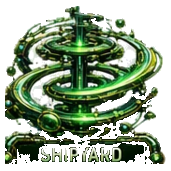
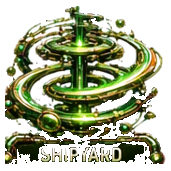
feat: add distinct secondary theme palettes

diff --git a/apps/nebula-arcade/src/nebula-arcade-page.ts b/apps/nebula-arcade/src/nebula-arcade-page.ts
@@ -79,7 +79,7 @@ function rocketDock(shellSurface: boolean): string {
 }
 
 function settingsDialog(): string {
-  return `<dialog id="nebula-settings"><form id="workspace-settings"><header><div><span>CANONICAL WORKSPACE</span><h2>Nebula Arcade settings</h2></div><button id="close-settings" type="button" aria-label="Close settings">×</button></header><p>Nebula Arcade reads the same theme, accent, stars, glass, blur, and scene override used across your authorized ecosystem apps. The shared Glass control sets depth one; deeper nested surfaces automatically become more translucent.</p><div class="settings-grid"><label>Theme<select name="theme"><option value="solar-flare">Solar flare</option><option value="nebula-purple">Nebula purple</option><option value="oceanic-blue">Oceanic blue</option><option value="aurora-green">Aurora green</option><option value="system">System</option></select></label><label>Accent<input name="accent" type="color" value="#a855f7"></label><label>Star density <output>70</output><input name="starDensity" type="range" min="0" max="100" value="70"></label><label>Glass opacity <output>76</output><input name="glassOpacity" type="range" min="0" max="100" value="76"></label><label>Blur strength <output>18</output><input name="blurStrength" type="range" min="0" max="100" value="18"></label><label class="wide">Custom scene override<input name="backgroundUrl" type="url" maxlength="2048" placeholder="https://… (leave blank for Nebula Arcade artwork)"></label></div><footer><output id="settings-status">Loading your SPMT workspace…</output><button id="save-settings" class="primary" type="submit">Save ecosystem settings</button></footer></form></dialog>`;
+  return `<dialog id="nebula-settings"><form id="workspace-settings"><header><div><span>CANONICAL WORKSPACE</span><h2>Nebula Arcade settings</h2></div><button id="close-settings" type="button" aria-label="Close settings">×</button></header><p>Nebula Arcade reads the same theme, accents, stars, glass, blur, and scene override used across your authorized ecosystem apps. The shared Glass control sets depth one; deeper nested surfaces automatically become more translucent.</p><div class="settings-grid"><label>Theme<select name="theme"><option value="solar-flare">Solar flare</option><option value="nebula-purple">Nebula purple</option><option value="oceanic-blue">Oceanic blue</option><option value="aurora-green">Aurora green</option><option value="system">System</option></select></label><label>Primary accent<input name="accent" type="color" value="#a855f7"></label><label>Logo accent<input name="accentSecondary" type="color" value="#2dd4bf"></label><label>Star density <output>70</output><input name="starDensity" type="range" min="0" max="100" value="70"></label><label>Glass opacity <output>76</output><input name="glassOpacity" type="range" min="0" max="100" value="76"></label><label>Blur strength <output>18</output><input name="blurStrength" type="range" min="0" max="100" value="18"></label><label class="wide">Custom scene override<input name="backgroundUrl" type="url" maxlength="2048" placeholder="https://… (leave blank for Nebula Arcade artwork)"></label></div><footer><output id="settings-status">Loading your SPMT workspace…</output><button id="save-settings" class="primary" type="submit">Save ecosystem settings</button></footer></form></dialog>`;
 }
 
 function heading(kicker: string, title: string, body: string): string {
@@ -99,16 +99,16 @@ export const NEBULA_OVERLAY_CSS = `html,body{margin:0;width:100%;height:100%;ove
 
 export const NEBULA_ARCADE_BROWSER_JS = `(()=>{'use strict';
 const form=document.getElementById('command'),reply=document.getElementById('reply'),it=document.getElementById('it'),players=document.getElementById('players'),last=document.getElementById('last'),leaderboard=document.getElementById('leaderboard'),playerStat=document.getElementById('chat-tag-player-stat'),settingsDialog=document.getElementById('nebula-settings'),settingsForm=document.getElementById('workspace-settings'),settingsStatus=document.getElementById('settings-status'),sceneForm=document.getElementById('overlay-scene-form'),sceneStatus=document.getElementById('overlay-scene-status'),sceneList=document.querySelector('[data-overlay-scenes]'),sceneCount=document.getElementById('overlay-scene-count');
-const themes={'solar-flare':['#f97316','#fbbf24'],'nebula-purple':['#a855f7','#e879f9'],'oceanic-blue':['#3b82f6','#22d3ee'],'aurora-green':['#10b981','#a3e635']};let serial=0,workspace,tenantId;
+const themes={'solar-flare':['#f97316','#38bdf8'],'nebula-purple':['#a855f7','#2dd4bf'],'oceanic-blue':['#3b82f6','#f59e0b'],'aurora-green':['#10b981','#fbbf24']};let serial=0,workspace,tenantId;
 function render(stored){if(!stored?.state)return;const s=stored.state,count=Object.keys(s.players||{}).length;if(it)it.textContent=s.currentItUserId?(s.players[s.currentItUserId]?.username||s.currentItUserId):'FREE FOR ALL';if(players)players.textContent=String(count);if(playerStat)playerStat.textContent=String(count);if(last)last.textContent=s.lastTagAt||'—';if(leaderboard)leaderboard.replaceChildren(...Object.values(s.players||{}).sort((a,b)=>b.score-a.score).map(p=>{const li=document.createElement('li');li.textContent=p.username+' · '+p.score+' pts · '+p.tagsMade+' tags';return li;}));}
-function applyAppearance(value={}){const preset=themes[value.theme]||themes['solar-flare'],intensity=value.nebulaIntensity??55,border=value.borderStrength??35,depth=value.parallaxDepth??35;document.body.style.setProperty('--spmt-accent',value.accent||preset[0]);document.body.style.setProperty('--spmt-accent-secondary',preset[1]);document.body.style.setProperty('--spmt-stars',String((value.starDensity??70)/100));document.body.style.setProperty('--spmt-glass-opacity',String((value.glassOpacity??76)/100));document.body.style.setProperty('--spmt-blur',(value.blurStrength??18)+'px');document.body.style.setProperty('--nebula-tint',String(.42+intensity*.0028));document.body.style.setProperty('--nebula-border-mix',Math.round(10+border*.45)+'%');document.body.style.setProperty('--nebula-scene-scale',String(1.015+depth/2000));document.body.style.setProperty('--nebula-scene',value.backgroundUrl?'url('+JSON.stringify(value.backgroundUrl)+')':"url('/assets/nebula-arcade/solar-system.webp')");}
-function fillSettings(value={}){if(!settingsForm)return;settingsForm.elements.theme.value=value.theme||'solar-flare';settingsForm.elements.accent.value=value.accent||themes[value.theme]?.[0]||'#f97316';settingsForm.elements.starDensity.value=String(value.starDensity??70);settingsForm.elements.glassOpacity.value=String(value.glassOpacity??76);settingsForm.elements.blurStrength.value=String(value.blurStrength??18);settingsForm.elements.backgroundUrl.value=value.backgroundUrl||'';settingsForm.querySelectorAll('input[type=range]').forEach(input=>{input.parentElement.querySelector('output').value=input.value;});}
+function applyAppearance(value={}){const preset=themes[value.theme]||themes['solar-flare'],intensity=value.nebulaIntensity??55,border=value.borderStrength??35,depth=value.parallaxDepth??35;document.body.style.setProperty('--spmt-accent',value.accent||preset[0]);document.body.style.setProperty('--spmt-accent-secondary',value.accentSecondary||preset[1]);document.body.style.setProperty('--spmt-stars',String((value.starDensity??70)/100));document.body.style.setProperty('--spmt-glass-opacity',String((value.glassOpacity??76)/100));document.body.style.setProperty('--spmt-blur',(value.blurStrength??18)+'px');document.body.style.setProperty('--nebula-tint',String(.42+intensity*.0028));document.body.style.setProperty('--nebula-border-mix',Math.round(10+border*.45)+'%');document.body.style.setProperty('--nebula-scene-scale',String(1.015+depth/2000));document.body.style.setProperty('--nebula-scene',value.backgroundUrl?'url('+JSON.stringify(value.backgroundUrl)+')':"url('/assets/nebula-arcade/solar-system.webp')");}
+function fillSettings(value={}){if(!settingsForm)return;settingsForm.elements.theme.value=value.theme||'solar-flare';settingsForm.elements.accent.value=value.accent||themes[value.theme]?.[0]||'#f97316';settingsForm.elements.accentSecondary.value=value.accentSecondary||themes[value.theme]?.[1]||'#38bdf8';settingsForm.elements.starDensity.value=String(value.starDensity??70);settingsForm.elements.glassOpacity.value=String(value.glassOpacity??76);settingsForm.elements.blurStrength.value=String(value.blurStrength??18);settingsForm.elements.backgroundUrl.value=value.backgroundUrl||'';settingsForm.querySelectorAll('input[type=range]').forEach(input=>{input.parentElement.querySelector('output').value=input.value;});}
 async function refresh(){try{const r=await fetch('/v1/chat-tag/state',{cache:'no-store'});if(r.ok)render(await r.json());}catch{}}
 async function loadWorkspace(){if(!settingsStatus)return;try{const sessionResponse=await fetch('/v1/session',{credentials:'same-origin',cache:'no-store'});if(!sessionResponse.ok)throw new Error('Open Nebula Arcade from a signed-in SpaceMountain session to use shared settings.');const session=await sessionResponse.json();tenantId=session.tenantIds?.[0];if(!tenantId)throw new Error('No canonical SPMT tenant is available.');const response=await fetch('/v1/workspace/profile',{credentials:'same-origin',cache:'no-store',headers:{'x-spmt-tenant':tenantId}});if(!response.ok)throw new Error('The canonical workspace could not be loaded.');workspace=await response.json();applyAppearance(workspace.appearance);fillSettings(workspace.appearance);settingsStatus.value='SPMT workspace revision '+workspace.revision+' loaded.';}catch(error){settingsStatus.value=error.message;}}
 async function saveAppearance(appearance){const request=revision=>fetch('/v1/workspace/profile',{method:'PATCH',credentials:'same-origin',headers:{'content-type':'application/json','x-spmt-tenant':tenantId},body:JSON.stringify({expectedRevision:revision,patch:{appearance}})});let response=await request(workspace.revision);if(response.status===409){settingsStatus.value='Workspace changed elsewhere; reconciling the latest revision…';const latestResponse=await fetch('/v1/workspace/profile',{credentials:'same-origin',cache:'no-store',headers:{'x-spmt-tenant':tenantId}});if(!latestResponse.ok)throw new Error('The latest workspace revision could not be loaded.');workspace=await latestResponse.json();response=await request(workspace.revision);}const value=await response.json();if(!response.ok){if(response.status===409)throw new Error('The workspace changed again while saving. Refresh and submit the theme once more.');throw new Error(value.message||'Settings could not be saved.');}workspace=value;applyAppearance(workspace.appearance);fillSettings(workspace.appearance);settingsStatus.value='Saved to SPMT revision '+workspace.revision+'.';}
 if(form)form.addEventListener('submit',async e=>{e.preventDefault();const data=new FormData(form);reply.textContent='Sending…';const body={messageId:'sandbox-'+Date.now()+'-'+(++serial),userId:data.get('userId'),username:data.get('username'),text:data.get('text'),roles:[data.get('role')]};try{const r=await fetch('/v1/chat-tag/message',{method:'POST',headers:{'content-type':'application/json'},body:JSON.stringify(body)}),value=await r.json();if(!r.ok)throw new Error(value.message||'Request failed');reply.textContent=value.outcome.message||value.outcome.code;render(value.stored);}catch(error){reply.textContent=error.message;}});
 if(settingsForm)settingsForm.addEventListener('submit',async e=>{e.preventDefault();if(!workspace||!tenantId)return settingsStatus.value='Open this app from your signed-in SpaceMountain account first.';const data=new FormData(settingsForm),appearance={...workspace.appearance,theme:String(data.get('theme')),accent:String(data.get('accent')),starDensity:Number(data.get('starDensity')),glassOpacity:Number(data.get('glassOpacity')),blurStrength:Number(data.get('blurStrength'))};const backgroundUrl=String(data.get('backgroundUrl')||'').trim();if(backgroundUrl)appearance.backgroundUrl=backgroundUrl;else delete appearance.backgroundUrl;settingsStatus.value='Saving canonical workspace…';try{await saveAppearance(appearance);}catch(error){settingsStatus.value=error.message;}});
-settingsForm?.elements.theme?.addEventListener('change',()=>{const theme=String(settingsForm.elements.theme.value),preset=themes[theme]||themes['solar-flare'];settingsForm.elements.accent.value=preset[0];applyAppearance({...workspace?.appearance,theme,accent:preset[0]});});settingsForm?.elements.accent?.addEventListener('input',()=>applyAppearance({...workspace?.appearance,theme:String(settingsForm.elements.theme.value),accent:String(settingsForm.elements.accent.value)}));
+settingsForm?.elements.theme?.addEventListener('change',()=>{const theme=String(settingsForm.elements.theme.value),preset=themes[theme]||themes['solar-flare'];settingsForm.elements.accent.value=preset[0];settingsForm.elements.accentSecondary.value=preset[1];applyAppearance({...workspace?.appearance,theme,accent:preset[0],accentSecondary:preset[1]});});settingsForm?.elements.accent?.addEventListener('input',()=>applyAppearance({...workspace?.appearance,theme:String(settingsForm.elements.theme.value),accent:String(settingsForm.elements.accent.value),accentSecondary:String(settingsForm.elements.accentSecondary.value)}));settingsForm?.elements.accentSecondary?.addEventListener('input',()=>applyAppearance({...workspace?.appearance,theme:String(settingsForm.elements.theme.value),accent:String(settingsForm.elements.accent.value),accentSecondary:String(settingsForm.elements.accentSecondary.value)}));
 document.getElementById('open-settings')?.addEventListener('click',()=>settingsDialog?.showModal());document.getElementById('close-settings')?.addEventListener('click',()=>settingsDialog?.close());settingsForm?.querySelectorAll('input[type=range]').forEach(input=>input.addEventListener('input',()=>{input.parentElement.querySelector('output').value=input.value;}));document.querySelectorAll('[data-command]').forEach(button=>button.addEventListener('click',()=>{if(form){form.elements.text.value=button.dataset.command;form.requestSubmit();}}));
 function sceneId(name){return name.toLowerCase().trim().replace(/[^a-z0-9]+/g,'-').replace(/^-|-$/g,'').slice(0,60)||'arcade-overlay';}
 function renderScenes(scenes){if(sceneCount)sceneCount.textContent=String(scenes.length);if(!sceneList)return;sceneList.replaceChildren(...scenes.map(scene=>{const card=document.createElement('article');card.className='overlay-scene-card';const enabled=scene.layers.filter(layer=>layer.enabled).length;card.innerHTML='<header><div><span>SAVED OVERLAY</span><h2></h2></div><b></b></header><p></p><code></code><div class="hero-links"><a target="_blank" rel="noreferrer">Open output</a><button type="button" data-edit>Edit</button><button type="button" data-delete>Delete</button></div>';card.querySelector('h2').textContent=scene.name;card.querySelector('b').textContent=enabled+' layers';card.querySelector('p').textContent=scene.layers.filter(layer=>layer.enabled).map(layer=>layer.gameId).join(' · ')||'No enabled layers';const output='/overlay/'+encodeURIComponent(scene.id);card.querySelector('code').textContent=location.origin+output;card.querySelector('a').href=output;card.querySelector('[data-edit]').addEventListener('click',()=>editScene(scene));card.querySelector('[data-delete]').addEventListener('click',()=>deleteScene(scene.id));return card;}));if(!scenes.length){const empty=document.createElement('article');empty.className='overlay-scene-card';empty.innerHTML='<h2>No saved overlays yet</h2><p>Create one below. The result becomes a stable browser-source URL.</p>';sceneList.append(empty);}}

diff --git a/apps/spacemountain/src/shell-ui-base.ts b/apps/spacemountain/src/shell-ui-base.ts
@@ -148,11 +148,12 @@ export class SpaceMountainShellUi {
     const root = this.options.root;
     const appearance = recordObject(this.snapshot.workspace, "appearance");
     const accent = recordText(appearance, ["accent"]);
+    const accentSecondary = recordText(appearance, ["accentSecondary", "accent_secondary"]);
     const backgroundUrl = recordText(appearance, ["backgroundUrl", "background_url"]);
     const configuredTheme = recordText(appearance, ["theme"]);
     const scene = this.activeAppId ? SHELL_APP_SCENES[this.activeAppId] ?? SPACEMOUNTAIN_SCENE : SPACEMOUNTAIN_SCENE;
     const backdrop = resolveProductBackdrop(scene, configuredTheme, accent, backgroundUrl);
-    const theme = backdrop.theme;
+    const theme = resolveProductTheme(backdrop.theme.id, backdrop.theme.accent, accentSecondary);
     root.dataset.spmtView = this.activeAppId ? "app" : this.view;
     root.dataset.spmtDock = this.dockCollapsed ? "collapsed" : "expanded";
     if (this.activeAppId) root.dataset.spmtApp = this.activeAppId; else delete root.dataset.spmtApp;
@@ -215,7 +216,7 @@ export class SpaceMountainShellUi {
       const number = (name: string) => Math.max(0, Math.min(100, Number(value(name)) || 0));
       const checked = (name: string) => form.get(name) === "on";
       this.options.onSaveWorkspace?.(revision, {
-        appearance: { theme: value("theme"), ...(value("accent") ? { accent: value("accent") } : {}), ...(value("backgroundUrl") ? { backgroundUrl: value("backgroundUrl") } : {}), glowIntensity: number("glowIntensity"), starDensity: number("starDensity"), glassOpacity: number("glassOpacity"), blurStrength: number("blurStrength"), nebulaIntensity: number("nebulaIntensity"), parallaxDepth: number("parallaxDepth"), borderStrength: number("borderStrength"), chatTransparency: number("chatTransparency"), density: value("density"), sidebarCollapsed: checked("sidebarCollapsed"), sidebarStyle: value("sidebarStyle"), sidebarPosition: value("sidebarPosition"), topbarStyle: value("topbarStyle"), tabStyle: value("tabStyle"), tabPosition: value("tabPosition"), showAvatars: checked("showAvatars"), smoothTransitions: checked("smoothTransitions"), pushToTalk: checked("pushToTalk"), animation: { speed: number("animationSpeed"), particles: checked("particles"), shootingStars: checked("shootingStars") } },
+        appearance: { theme: value("theme"), ...(value("accent") ? { accent: value("accent") } : {}), ...(value("accentSecondary") ? { accentSecondary: value("accentSecondary") } : {}), ...(value("backgroundUrl") ? { backgroundUrl: value("backgroundUrl") } : {}), glowIntensity: number("glowIntensity"), starDensity: number("starDensity"), glassOpacity: number("glassOpacity"), blurStrength: number("blurStrength"), nebulaIntensity: number("nebulaIntensity"), parallaxDepth: number("parallaxDepth"), borderStrength: number("borderStrength"), chatTransparency: number("chatTransparency"), density: value("density"), sidebarCollapsed: checked("sidebarCollapsed"), sidebarStyle: value("sidebarStyle"), sidebarPosition: value("sidebarPosition"), topbarStyle: value("topbarStyle"), tabStyle: value("tabStyle"), tabPosition: value("tabPosition"), showAvatars: checked("showAvatars"), smoothTransitions: checked("smoothTransitions"), pushToTalk: checked("pushToTalk"), animation: { speed: number("animationSpeed"), particles: checked("particles"), shootingStars: checked("shootingStars") } },
         dockSlots: [value("dockSlot0") || null, value("dockSlot1") || null, value("dockSlot2") || null],
       });
     });
@@ -245,9 +246,21 @@ export class SpaceMountainShellUi {
     root.querySelectorAll<HTMLInputElement>('.spmt-slider-grid input[type="range"]').forEach((input) => input.addEventListener("input", () => { const output = input.parentElement?.querySelector<HTMLOutputElement>("output"); if (output) output.value = input.value; }));
     const themeSelect = root.querySelector<HTMLSelectElement>("[data-workspace-theme]");
     const accentInput = root.querySelector<HTMLInputElement>("[data-workspace-accent]");
+    let secondaryInput = root.querySelector<HTMLInputElement>("[data-workspace-accent-secondary]");
+    if (accentInput && !secondaryInput) {
+      const label = document.createElement("label");
+      label.textContent = "Logo accent";
+      secondaryInput = document.createElement("input");
+      secondaryInput.name = "accentSecondary";
+      secondaryInput.type = "color";
+      secondaryInput.value = accentSecondary ?? resolveProductTheme(themeSelect?.value).accentSecondary;
+      secondaryInput.dataset.workspaceAccentSecondary = "";
+      label.append(secondaryInput);
+      accentInput.parentElement?.after(label);
+    }
     const previewTheme = () => {
-      if (!themeSelect || !accentInput) return;
-      const next = resolveProductTheme(themeSelect.value, accentInput.value);
+      if (!themeSelect || !accentInput || !secondaryInput) return;
+      const next = resolveProductTheme(themeSelect.value, accentInput.value, secondaryInput.value);
       root.dataset.theme = next.id;
       root.dataset.spmtTheme = next.id;
       root.style.setProperty("--accent", next.accent);
@@ -262,17 +275,22 @@ export class SpaceMountainShellUi {
     };
     themeSelect?.addEventListener("change", () => {
       if (!accentInput) return;
-      accentInput.value = resolveProductTheme(themeSelect.value).accent;
+      const preset = resolveProductTheme(themeSelect.value);
+      accentInput.value = preset.accent;
+      if (secondaryInput) secondaryInput.value = preset.accentSecondary;
       previewTheme();
     });
     root.querySelectorAll<HTMLButtonElement>("[data-theme-choice]").forEach((button) => button.addEventListener("click", () => {
       if (!themeSelect || !accentInput) return;
       themeSelect.value = button.dataset.themeChoice ?? "solar-flare";
-      accentInput.value = resolveProductTheme(themeSelect.value).accent;
+      const preset = resolveProductTheme(themeSelect.value);
+      accentInput.value = preset.accent;
+      if (secondaryInput) secondaryInput.value = preset.accentSecondary;
       root.querySelectorAll<HTMLElement>("[data-theme-choice]").forEach((choice) => choice.setAttribute("aria-pressed", String(choice === button)));
       previewTheme();
     }));
     accentInput?.addEventListener("input", previewTheme);
+    secondaryInput?.addEventListener("input", previewTheme);
     if (this.view === "workspace") {
       mountOverlayBay(root, this.snapshot);
       root.querySelectorAll<HTMLElement>("[data-overlay-issue]").forEach((node) => node.addEventListener("click", () => this.options.onIssueOverlayOutput?.(node.dataset.overlayApp ?? "", node.dataset.overlayIssue ?? "", node.dataset.overlayPersonal === "true")));

diff --git a/packages/ui/src/index.ts b/packages/ui/src/index.ts
@@ -13,17 +13,18 @@ export interface ProductThemeV1 {
 }
 
 export const PRODUCT_THEME_PRESETS: Readonly<Record<ProductThemeIdV1, ProductThemeV1>> = Object.freeze({
-  "solar-flare": Object.freeze({ id: "solar-flare", name: "Solar", accent: "#f97316", accentSecondary: "#fbbf24" }),
-  "nebula-purple": Object.freeze({ id: "nebula-purple", name: "Nebula", accent: "#a855f7", accentSecondary: "#e879f9" }),
-  "oceanic-blue": Object.freeze({ id: "oceanic-blue", name: "Oceanic", accent: "#3b82f6", accentSecondary: "#22d3ee" }),
-  "aurora-green": Object.freeze({ id: "aurora-green", name: "Aurora", accent: "#10b981", accentSecondary: "#a3e635" }),
+  "solar-flare": Object.freeze({ id: "solar-flare", name: "Solar", accent: "#f97316", accentSecondary: "#38bdf8" }),
+  "nebula-purple": Object.freeze({ id: "nebula-purple", name: "Nebula", accent: "#a855f7", accentSecondary: "#2dd4bf" }),
+  "oceanic-blue": Object.freeze({ id: "oceanic-blue", name: "Oceanic", accent: "#3b82f6", accentSecondary: "#f59e0b" }),
+  "aurora-green": Object.freeze({ id: "aurora-green", name: "Aurora", accent: "#10b981", accentSecondary: "#fbbf24" }),
 });
 
-export function resolveProductTheme(theme: unknown, customAccent?: unknown): ProductThemeV1 {
+export function resolveProductTheme(theme: unknown, customAccent?: unknown, customSecondary?: unknown): ProductThemeV1 {
   const key = typeof theme === "string" && theme in PRODUCT_THEME_PRESETS ? theme as ProductThemeIdV1 : "solar-flare";
   const preset = PRODUCT_THEME_PRESETS[key];
-  if (typeof customAccent !== "string" || !/^#[0-9a-f]{6}$/i.test(customAccent)) return preset;
-  return { ...preset, accent: customAccent };
+  const accent = typeof customAccent === "string" && /^#[0-9a-f]{6}$/i.test(customAccent) ? customAccent : preset.accent;
+  const accentSecondary = typeof customSecondary === "string" && /^#[0-9a-f]{6}$/i.test(customSecondary) ? customSecondary : preset.accentSecondary;
+  return accent === preset.accent && accentSecondary === preset.accentSecondary ? preset : { ...preset, accent, accentSecondary };
 }
 
 export interface ProductSceneV1 {

diff --git a/apps/spacemountain-web/src/first-party-app-surfaces.ts b/apps/spacemountain-web/src/first-party-app-surfaces.ts
@@ -139,7 +139,7 @@ body[data-surface="shell"],body[data-surface="workspace"]{height:100dvh;min-heig
 `;
 
 export const FIRST_PARTY_APP_BROWSER_JS = `(()=>{'use strict';
-const body=document.body,themes={'solar-flare':['#f97316','#fbbf24'],'nebula-purple':['#a855f7','#e879f9'],'oceanic-blue':['#3b82f6','#22d3ee'],'aurora-green':['#10b981','#a3e635']};
+const body=document.body,themes={'solar-flare':['#f97316','#38bdf8'],'nebula-purple':['#a855f7','#2dd4bf'],'oceanic-blue':['#3b82f6','#f59e0b'],'aurora-green':['#10b981','#fbbf24']};
 const shellScenes={
 'discord-stream-hub':'radial-gradient(circle at 76% 28%,rgba(255,255,255,.32) 0 1.4%,transparent 1.6%),radial-gradient(circle at 76% 28%,rgba(255,255,255,.11) 0 12%,transparent 28%),linear-gradient(120deg,transparent 0 52%,rgba(255,255,255,.08) 52.5% 53%,transparent 53.5%),linear-gradient(145deg,#03040a 0 38%,#0a1220 68%,#020308)',
 'streamweaver':'radial-gradient(ellipse at 72% 25%,rgba(255,255,255,.13),transparent 30%),repeating-radial-gradient(ellipse at 72% 25%,transparent 0 34px,rgba(255,255,255,.09) 36px 38px,transparent 40px 70px),linear-gradient(145deg,#03040a,#090516 58%,#02030a)',

diff --git a/apps/spacemountain-web/src/bounded-app-client.ts b/apps/spacemountain-web/src/bounded-app-client.ts
@@ -4,6 +4,7 @@ import { bindProductRocketNavigation, configureSurfaceRoot, installProductBackdr
 interface AppearanceLike {
   theme?: unknown;
   accent?: unknown;
+  accentSecondary?: unknown;
   backgroundUrl?: unknown;
   glassOpacity?: unknown;
   blurStrength?: unknown;
@@ -30,7 +31,8 @@ function applyAppearance(root: HTMLElement, sceneUrl: string, appearance: Appear
   const themeId = typeof appearance.theme === "string" ? appearance.theme : "solar-flare";
   const accent = typeof appearance.accent === "string" ? appearance.accent : undefined;
   const customBackground = typeof appearance.backgroundUrl === "string" ? appearance.backgroundUrl : undefined;
-  const theme = resolveProductTheme(themeId, accent);
+  const secondary = typeof appearance.accentSecondary === "string" ? appearance.accentSecondary : undefined;
+  const theme = resolveProductTheme(themeId, accent, secondary);
   root.style.setProperty("--spmt-accent", theme.accent);
   root.style.setProperty("--spmt-accent-2", theme.accentSecondary);
   root.style.setProperty("--spmt-glass-opacity", String(ratio(appearance.glassOpacity, .76)));

diff --git a/packages/authority-core/src/index.ts b/packages/authority-core/src/index.ts
@@ -8,6 +8,7 @@ export type WorkspaceThemeV1 = "system" | "light" | "dark" | "solar-flare" | "ne
 export interface AppearanceV1 {
   theme: WorkspaceThemeV1;
   accent?: string;
+  accentSecondary?: string;
   backgroundUrl?: string;
   glowIntensity?: number;
   starDensity?: number;
@@ -532,6 +533,7 @@ function requireWorkspaceValue(value: string, name: string, max: number) {
 function validateAppearance(value: AppearanceV1) {
   if (!["system", "light", "dark", "solar-flare", "nebula-purple", "oceanic-blue", "aurora-green"].includes(value.theme)) throw new AuthorityValidationError("Workspace theme is invalid");
   if (value.accent !== undefined && !/^#[0-9a-fA-F]{6}$/.test(value.accent)) throw new AuthorityValidationError("Workspace accent is invalid");
+  if (value.accentSecondary !== undefined && !/^#[0-9a-fA-F]{6}$/.test(value.accentSecondary)) throw new AuthorityValidationError("Workspace secondary accent is invalid");
   if (value.backgroundUrl !== undefined) {
     requireWorkspaceValue(value.backgroundUrl, "background URL", 2048);
     let url: URL;
